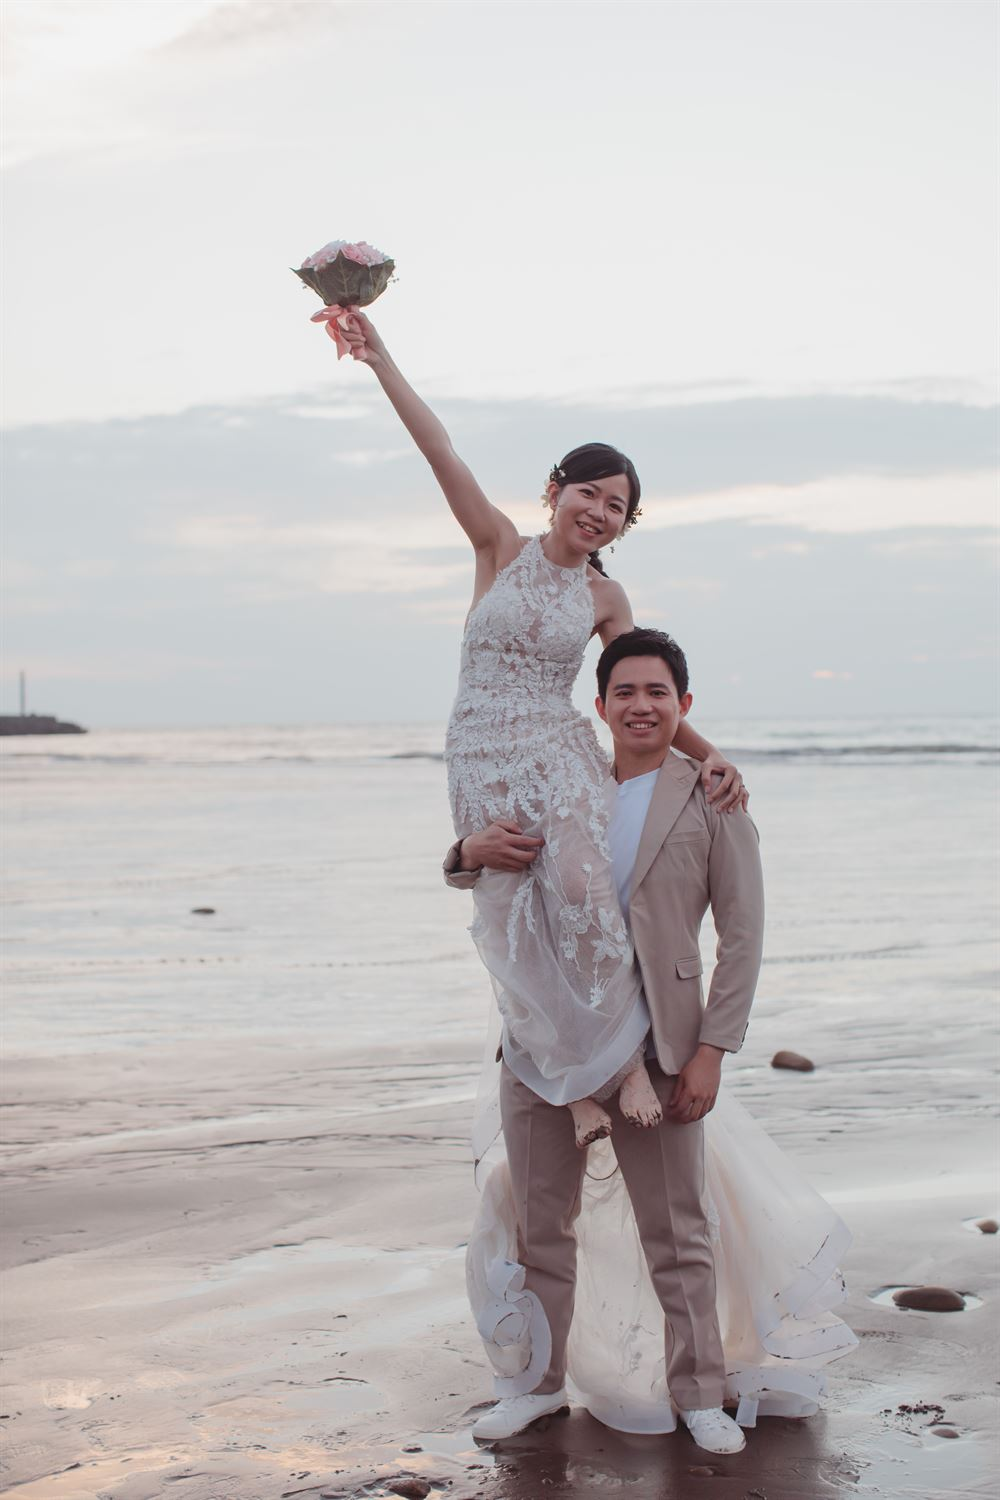
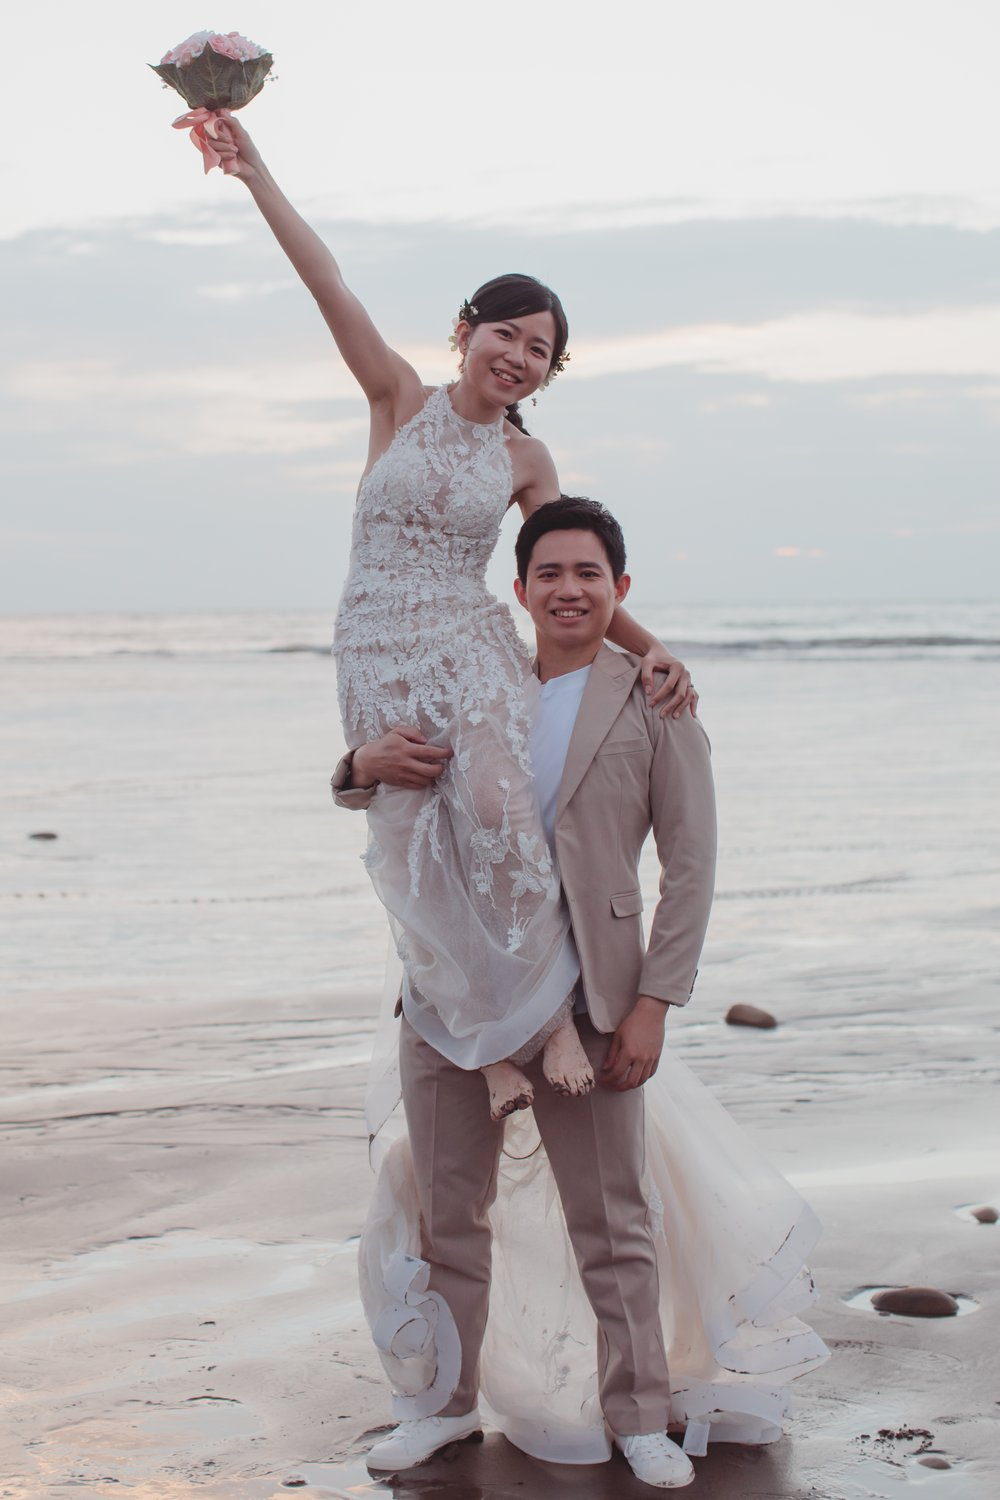
feat(story): 故事書第四頁照片放大人物，第一、二頁文案微調
第四頁照片改從原圖重新裁切，放大約 1.2 倍，保留高舉的捧花與腳；文案改為「親手給她送上」「那個聖誕夜」。

diff --git a/src/app/core/config/wedding-content.ts b/src/app/core/config/wedding-content.ts
@@ -549,7 +549,7 @@ export const STORY_PAGES: readonly StoryPage[] = [
     id: 'story-1',
     year: '2022 8月',
     title: '再次相遇',
-    body: '那年夏天，他從宜蘭返家，途經台北，只為親手送上一盒奶凍捲。寥寥數語的相遇，卻讓心動悄悄生根，從此有了彼此的消息。兩段平行的日子，於是有了交集。',
+    body: '那年夏天，他從宜蘭返家，途經台北，親手給她送上一盒奶凍捲。寥寥數語的相遇，卻讓心動悄悄生根，從此有了彼此的消息。兩段平行的日子，於是有了交集。',
     photoUrl: versioned('assets/gallery/photo-1.jpg'),
     photoAlt: '日式老屋前，新郎牽起新娘的手轉圈，黑色蓬裙揚起',
   },
@@ -557,7 +557,7 @@ export const STORY_PAGES: readonly StoryPage[] = [
     id: 'story-2',
     year: '2023 1月',
     title: '在一起',
-    body: '那晚聖誕夜，他在滿城燈火前牽起她的手，說出心意。她的答覆晚了一個月，卻格外溫暖，她遞來一個暖暖包，角落輕輕寫著：「好」。',
+    body: '那個聖誕夜，他在滿城燈火前牽起她的手，說出心意。她的答覆晚了一個月，卻格外溫暖，她遞來一個暖暖包，角落輕輕寫著：「好」。',
     photoUrl: versioned('assets/gallery/photo-2.jpg'),
     photoAlt: '大樹綠蔭下，新娘身著粉色紗裙依偎在新郎懷裡',
   },
